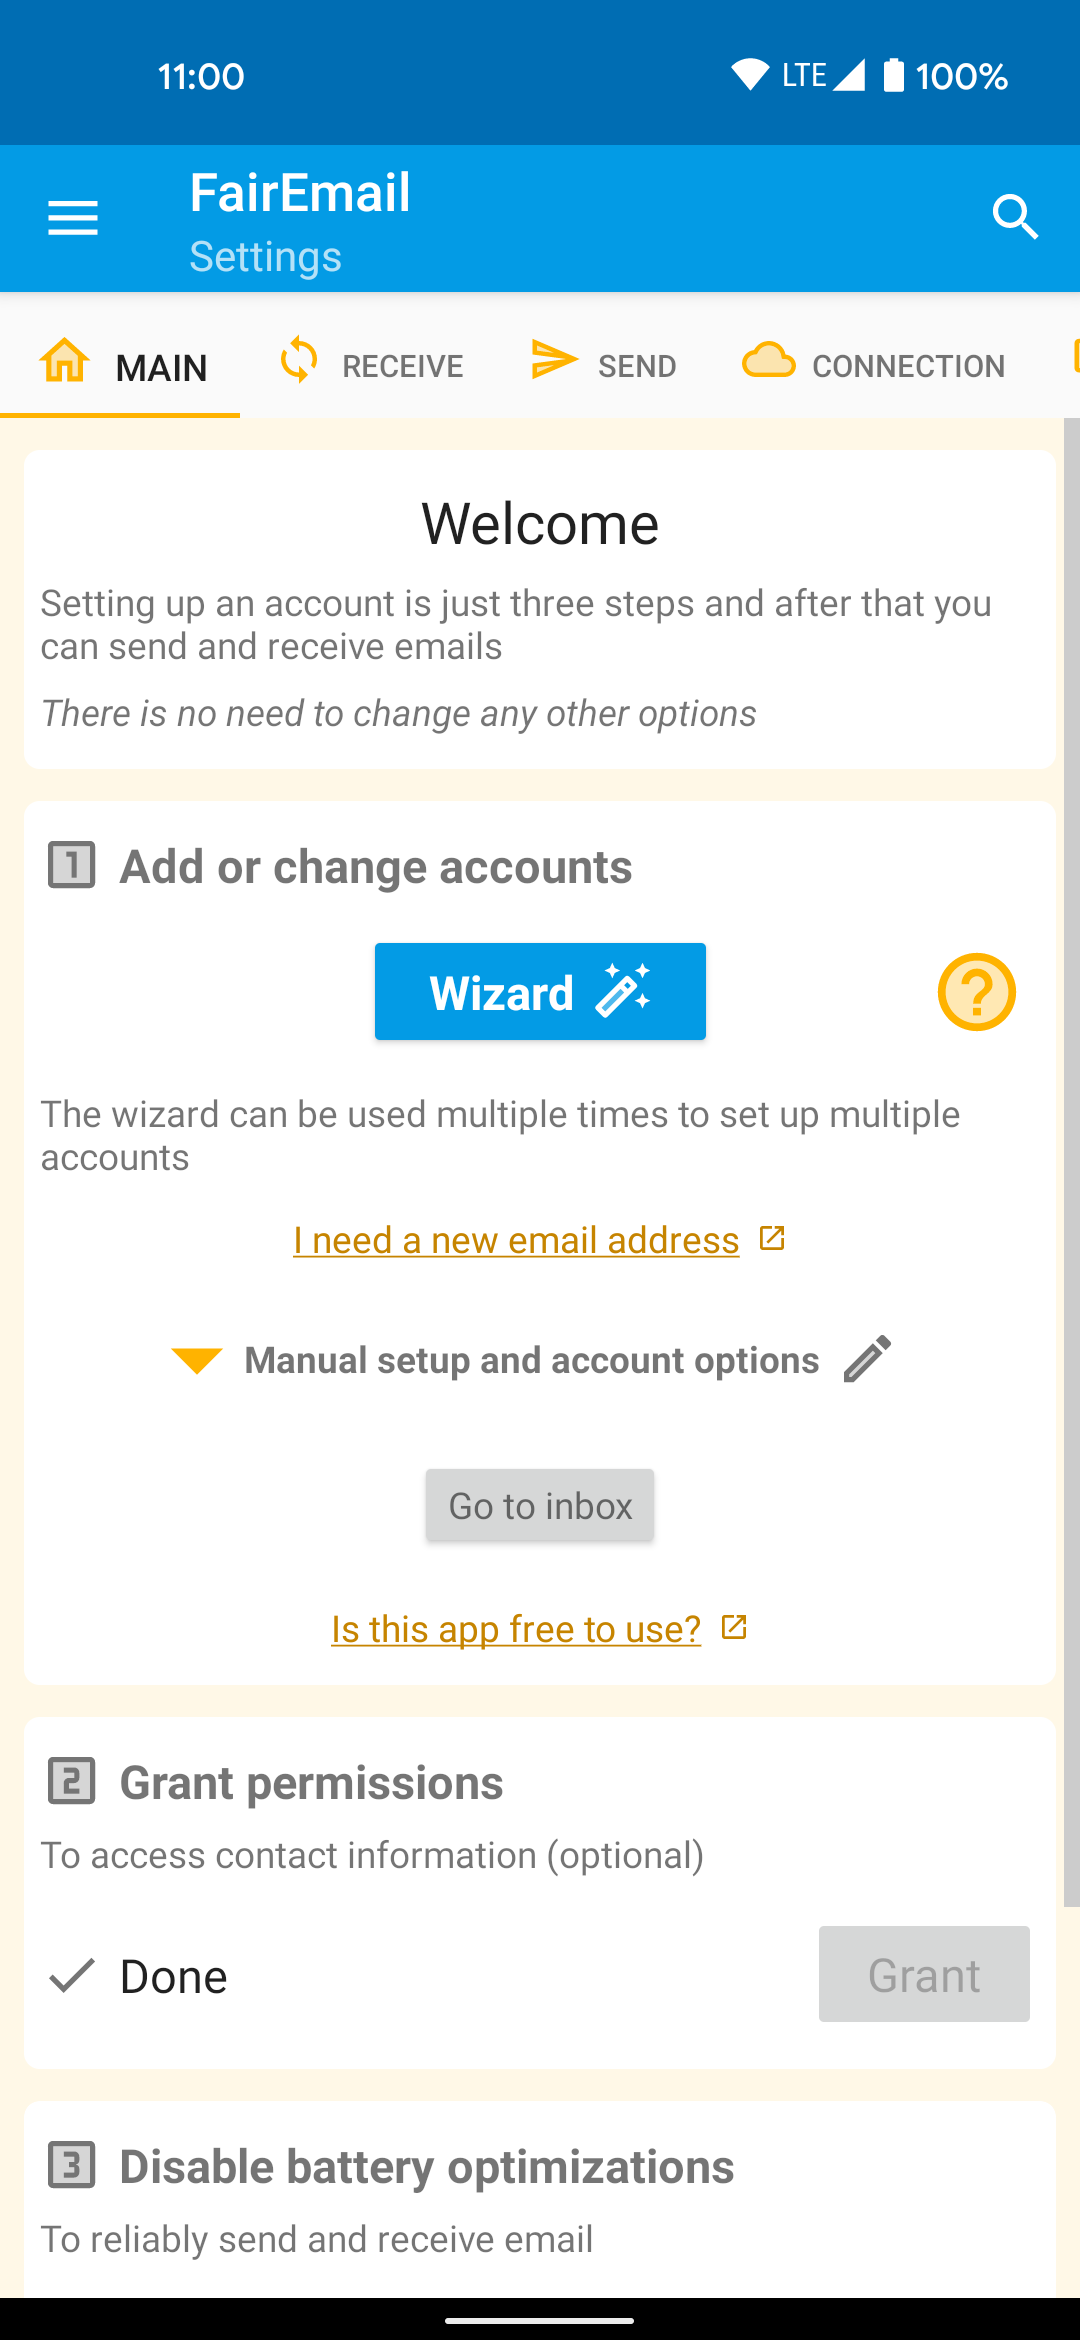
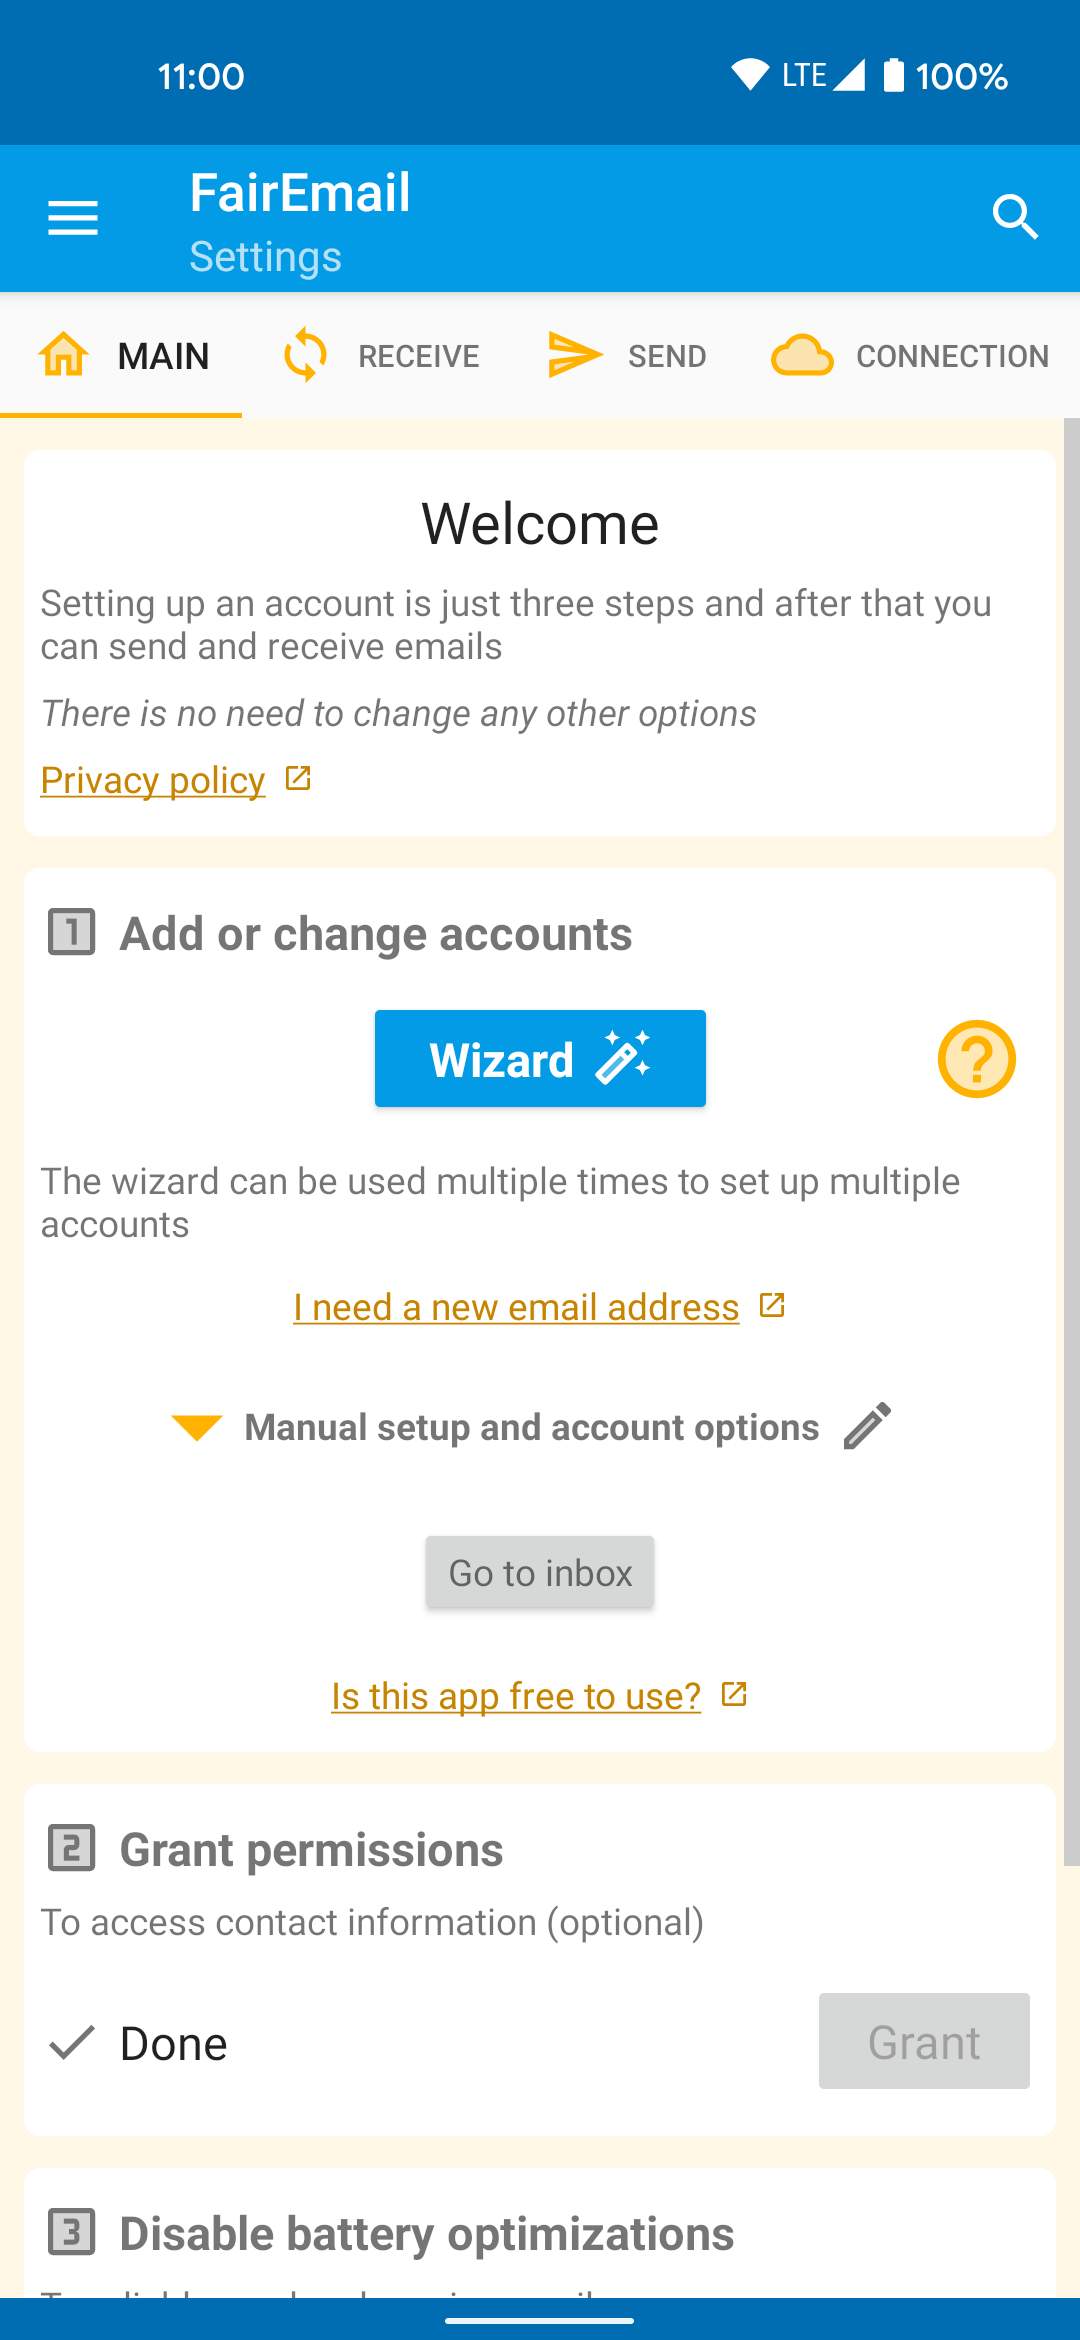
Link privacy policy from welcome section

diff --git a/app/src/main/java/eu/faircode/email/FragmentSetup.java b/app/src/main/java/eu/faircode/email/FragmentSetup.java
@@ -62,6 +62,8 @@ import java.util.List;
 public class FragmentSetup extends FragmentBase {
     private ViewGroup view;
 
+    private TextView tvPrivacy;
+
     private TextView tvNoInternet;
     private ImageButton ibHelp;
     private Button btnQuick;
@@ -128,6 +130,8 @@ public class FragmentSetup extends FragmentBase {
 
         // Get controls
 
+        tvPrivacy = view.findViewById(R.id.tvPrivacy);
+
         tvNoInternet = view.findViewById(R.id.tvNoInternet);
         ibHelp = view.findViewById(R.id.ibHelp);
         btnQuick = view.findViewById(R.id.btnQuick);
@@ -163,6 +167,14 @@ public class FragmentSetup extends FragmentBase {
         grpDataSaver = view.findViewById(R.id.grpDataSaver);
 
         // Wire controls
+
+        tvPrivacy.setPaintFlags(tvPrivacy.getPaintFlags() | Paint.UNDERLINE_TEXT_FLAG);
+        tvPrivacy.setOnClickListener(new View.OnClickListener() {
+            @Override
+            public void onClick(View v) {
+                Helper.view(v.getContext(), Uri.parse(Helper.PRIVACY_URI), false);
+            }
+        });
 
         ibHelp.setOnClickListener(new View.OnClickListener() {
             @Override
